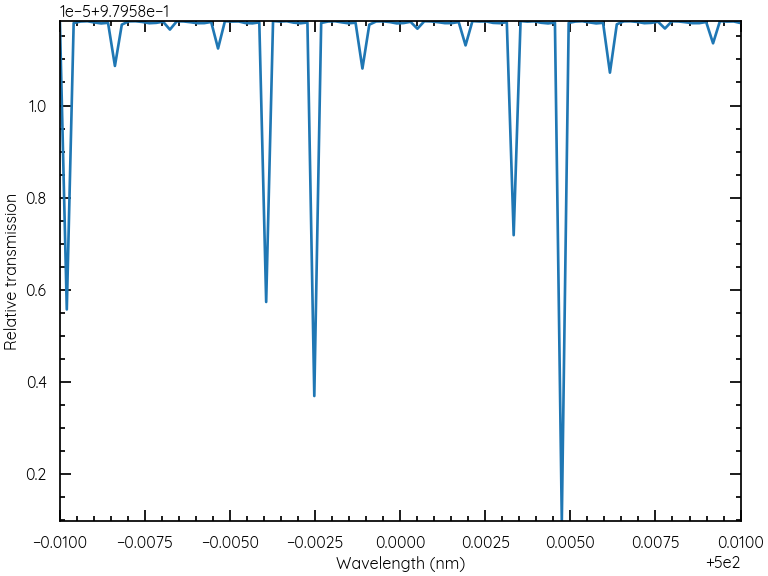
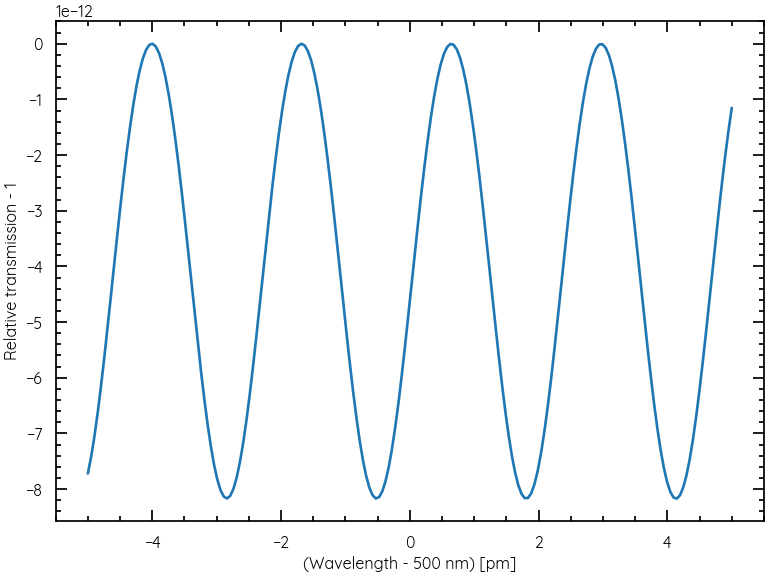
Fix up a few example plots (EtalonSim)

diff --git a/example_scripts/EtalonSim/etalon_numerical_comparison.py b/example_scripts/EtalonSim/etalon_numerical_comparison.py
@@ -45,14 +45,28 @@ def main() -> None:
     Xs = np.zeros_like(Zs)
     Ys = np.zeros_like(Zs)
 
-    c = 6e-3 / 7692 * 1e9
+    target_wavelength = 780 * u.nm
+
+    mode_number = int((mirror_spacing / target_wavelength).si.value)
+
+    central_wavelength = (mirror_spacing / mode_number).to(u.nm).value
     w = 0.01
-    wavelengths = np.linspace(c - w / 2, c + w / 2, 301) * u.nm
+    wavelengths = np.linspace(
+        central_wavelength - w / 2,
+        central_wavelength + w / 1.5,
+        301,
+    )
+
+    wavelengths *= u.nm
 
     # Three peaks:
     # wavelengths = np.linspace(499.975, 500.025, 200) * u.nm
 
-    output = {"gaussian": [], "planar": []}
+    output = {
+        "gaussian": [],
+        "planar": [],
+        # "spherical": [],
+    }
 
     for wavelength in wavelengths:
         beam = GaussianBeam(
@@ -76,6 +90,16 @@ def main() -> None:
         intensity = np.real(np.sum(dimmed) * np.conj(np.sum(dimmed)))
         output["planar"].append(intensity**0.5)
 
+        # beam = SphericalBeam(
+        #     wavelength=wavelength,
+        #     plane_normal=(0, 0, 1),
+        #     f_number=20,
+        # )
+        # results = beam.integrated_E_field(z=Zs, radius=10 * u.mm)
+        # dimmed = results * reflectivity
+        # intensity = np.real(np.sum(dimmed) * np.conj(np.sum(dimmed)))
+        # output["spherical"].append(intensity**0.5)
+
     fig = plt.figure()
     ax = fig.gca()
 
@@ -90,7 +114,9 @@ def main() -> None:
     ax.plot(
         wavelengths,
         analytic_intensity / np.max(analytic_intensity),
-        label=f"Analytic\nreflection-limited peak\nFWHM={analytic_fwhm:.4f}\nFinesse={analytic_finesse:.2f}",
+        label="Analytic reflection-limited peak\n"
+        + f"FWHM = {analytic_fwhm:.4f}\n"
+        + f"Finesse = {analytic_finesse:.2f}",
     )
 
     for _, [beam_type, values] in enumerate(output.items()):
@@ -98,28 +124,36 @@ def main() -> None:
         # Corresponds to the very first mirror reflection
         values = values / np.max(values) - (1 - np.sqrt(mirror_reflectivity))  # noqa: PLW2901
 
-        peak_fwhm = np.diff(FWHM(wavelengths.to("pm").value, values))[0] * u.pm
-        calculated_finesse = distance_between_peaks / peak_fwhm
+        try:
+            peak_fwhm = np.diff(FWHM(wavelengths.to("pm").value, values))[0] * u.pm
+            calculated_finesse = distance_between_peaks / peak_fwhm
+        except (IndexError, ValueError):
+            calculated_finesse = np.nan
 
         ax.plot(
             wavelengths,
             values / np.max(values),
             ls="--",
-            label=f"{beam_type}\nFWHM={peak_fwhm:.4f}\n"
-            + f"Finesse={calculated_finesse:.2f}",
+            label=f"{beam_type.title()} beam\n"
+            + f"FWHM = {peak_fwhm:.4f}\n"
+            + f"Finesse = {calculated_finesse:.2f}",
         )
 
     ax.set_xlabel("Wavelength (nm)")
     ax.set_ylabel("Normalised intensity")
     # ax.set_yticklabels([])
     ax.set_xlim(min(wavelengths).to("nm").value, max(wavelengths).to("nm").value)
+
+    ax.get_xaxis().get_major_formatter().set_scientific(True)
+    ax.get_xaxis().get_major_formatter().set_useOffset(False)
+
     ax.set_ylim(-0.05, 1.1)
     ax.legend()
 
     Path(SCRIPT_PATH / "plots").mkdir(parents=True, exist_ok=True)
     plt.savefig(SCRIPT_PATH / "plots" / f"{SCRIPT_NAME}.png")
 
-    plt.show()
+    # plt.show()
 
 
 if __name__ == "__main__":

diff --git a/example_scripts/EtalonSim/beamsplitter_fringing_numerical_spherical_beam.py b/example_scripts/EtalonSim/beamsplitter_fringing_numerical_spherical_beam.py
@@ -58,7 +58,7 @@ def main() -> None:
 
     mirror_spacing = 25.4 * u.mm  # 1 inch beamsplitter cube
     # even 3 reflections gets very low power left indeed, here I go overboard
-    num_round_trips = 50
+    num_round_trips = 20
     # 2% reflection from antireflection-coated outer cube surface
     mirror_reflectivity = 0.02
 
@@ -66,7 +66,7 @@ def main() -> None:
     baseline_transmission = 1 - np.sum(reflectivity)
 
     # Work out where to sample the beam - starting from the back surface of the BSC
-    backfocus = 60.5 * u.mm
+    backfocus = 85 * u.mm
     start_z = -(backfocus + mirror_spacing)
     stop_z = start_z + (2 * mirror_spacing) * (num_round_trips - 1)
 
@@ -79,7 +79,14 @@ def main() -> None:
     Zs = Zs * u.mm
 
     # wavelengths = np.linspace(380, 930, 3000) * u.nm
-    wavelengths = np.linspace(499.99, 500.01, 100) * u.nm
+    mid_wl = 500 * u.nm
+    width = 10 * u.pm
+    wavelengths = np.linspace(
+        (mid_wl - width / 2).to(u.nm).value,
+        (mid_wl + width / 2).to(u.nm).value,
+        200,
+    )
+    wavelengths *= u.nm
 
     output = []
 
@@ -94,7 +101,8 @@ def main() -> None:
             f_number=f_number,
         )
 
-        results = beam.summed_E_field(z=Zs, max_radius=5 * u.mm)
+        # results = beam.summed_E_field(z=Zs, max_radius=10 * u.mm, force_radius=True)
+        results = beam.integrated_E_field(z=Zs, radius=10 * u.mm)
 
         # Multiply by the reflectivity attenuation
         dimmed = np.array(
@@ -115,21 +123,27 @@ def main() -> None:
     plt.rcParams["axes.autolimit_mode"] = "data"
 
     transmission = baseline_transmission - output
-    ax.plot(wavelengths, transmission, label="")
+    max_transmission = np.nanmax(transmission)
+    delta_wls = (wavelengths - mid_wl).to(u.pm)
+
+    ax.plot(delta_wls, transmission / max_transmission - 1, label="")
 
     # ax.set_title("Beamsplitter cube etalon, gaussian beam illumination")
-    ax.set_xlabel("Wavelength (nm)")
-    ax.set_ylabel("Relative transmission")
+    ax.set_xlabel(f"(Wavelength - {mid_wl:.0f}) [pm]")
+    ax.set_ylabel("Relative transmission - 1")
     # ax.set_yticklabels([])
-    ax.set_xlim(min(wavelengths).value, max(wavelengths).value)
-    ax.set_ylim(min(transmission), max(transmission))
+    # ax.set_xlim(min(wavelengths).value, max(wavelengths).value)
+    # ax.set_ylim(min(transmission), max(transmission))
+
+    ax.get_yaxis().get_major_formatter().set_useOffset(False)
+    ax.get_yaxis().get_major_formatter().set_scientific(True)
 
     # ax.legend()
 
     Path(SCRIPT_PATH / "plots").mkdir(parents=True, exist_ok=True)
     plt.savefig(SCRIPT_PATH / "plots" / f"{SCRIPT_NAME}.png")
 
-    plt.show()
+    # plt.show()
 
 
 if __name__ == "__main__":

diff --git a/example_scripts/EtalonSim/glue_gap_fringing_numerical_spherical_beam.py b/example_scripts/EtalonSim/glue_gap_fringing_numerical_spherical_beam.py
@@ -31,26 +31,27 @@ def main() -> None:
     mirror_spacing: Quantity = 10 * u.um  # Glue gap thickness in beamsplitter cube
     mirror_reflectivity = 0.01  # Calculated reflectivity due to refractive
     # index mismatch between the glue and the glass
-    num_round_trips = 11
+    num_round_trips = 20
 
     reflectivity = np.array([mirror_reflectivity**i for i in range(1, num_round_trips)])
     baseline_transmission = 1 - np.sum(reflectivity)
     print(f"{baseline_transmission = }")
 
     # Work out where to sample the beam - starting from the back surface of the BSC
-    backfocus = 60.5 * u.mm
+    backfocus = 80 * u.mm
     start_z = -(backfocus + mirror_spacing)
     stop_z = start_z + (2 * mirror_spacing) * (num_round_trips - 1)
 
     # numpy doesn't enjoy working with astropy.units sometimes...
-    Zs = (
-        np.linspace(
-            start_z.to("mm").value, stop_z.to("mm").value, (num_round_trips - 1)
-        )
-        * u.mm
+    Zs = np.linspace(
+        start_z.to("mm").value,
+        stop_z.to("mm").value,
+        (num_round_trips - 1),
     )
 
-    wavelengths = np.linspace(499.9, 500.1, 100) * u.nm
+    Zs *= u.mm
+
+    wavelengths = np.linspace(490, 510, 200) * u.nm
 
     output = []
 
@@ -64,7 +65,8 @@ def main() -> None:
             debug_level=0,
         )
 
-        results = beam.summed_E_field(z=Zs, max_radius=2 * u.mm)
+        # results = beam.summed_E_field(z=Zs, max_radius=2 * u.mm)
+        results = beam.integrated_E_field(z=Zs, radius=10 * u.mm)
 
         # Multiply by the reflectivity attenuation
         dimmed = np.array(
@@ -91,14 +93,16 @@ def main() -> None:
     ax.set_xlabel("Wavelength (nm)")
     ax.set_ylabel("Relative transmission")
     # ax.set_yticklabels([])
-    ax.set_ylim(min(transmission), max(transmission))
     ax.set_xlim(min(wavelengths).value, max(wavelengths).value)
-    # ax.legend()
+    ax.set_ylim(min(transmission), max(transmission))
+
+    # ax.get_yaxis().get_major_formatter().set_scientific(True)
+    # ax.get_yaxis().get_major_formatter().set_useOffset(False)
 
     Path(SCRIPT_PATH / "plots").mkdir(parents=True, exist_ok=True)
     plt.savefig(SCRIPT_PATH / "plots" / f"{SCRIPT_NAME}.png")
 
-    plt.show()
+    # plt.show()
 
 
 if __name__ == "__main__":

diff --git a/src/curved_air/beams.py b/src/curved_air/beams.py
@@ -518,13 +518,39 @@ class SphericalBeam(Beam):
         def integrand(r: float) -> float:
             sqrtr2x2 = np.sqrt(r**2 + z**2)
 
-            # print((1 / sqrtr2x2) * np.exp(-1j * k * sqrtr2x2))# * r
+            return (1 / sqrtr2x2) * np.exp(-1j * k * sqrtr2x2) * r
 
-            return (1 / sqrtr2x2) * np.exp(-1j * k * sqrtr2x2)  # * r
-
-        I, error = quad(integrand, 0, radius.to(u.mm).value, limit=50)  # noqa: E741
+        I, error = quad(integrand, 0, radius.to(u.mm).value, limit=100)  # noqa: E741
 
         return 2 * np.pi * self.E_0 * I
+
+    def integrated_E_field(
+        self,
+        z: Quantity = 0 * u.mm,
+        radius: Quantity = 10 * u.mm,
+    ) -> Quantity:
+        """Use the analytic expression for a slice through the beam at a distance z"""
+
+        if isinstance(z, list):
+            return [self.integrated_E_field(z=zi, radius=radius) for zi in z]
+
+        if isinstance(z, Quantity):
+            z = z.to(u.mm).value
+
+        if isinstance(radius, Quantity):
+            radius = radius.to(u.mm).value
+
+        beam_edge = z / self.f_number
+
+        R = np.minimum(radius, beam_edge)
+
+        k = self.k_scalar.to(1 / u.mm).value
+
+        constant = (2 * np.pi * self.E_0) / (1j * k)
+        exponent_1 = 1j * (k * np.sqrt(R**2 + z**2))
+        exponent_2 = 1j * (k * z)
+
+        return constant * (np.exp(exponent_1) * np.exp(-exponent_2))
 
 
 def main() -> None: ...

diff --git a/example_scripts/EtalonSim/etalon_gaussian_beam_comparing_gouy_and_radial_phase.py b/example_scripts/EtalonSim/etalon_gaussian_beam_comparing_gouy_and_radial_phase.py
@@ -101,7 +101,7 @@ def main() -> None:
     ax.plot(0, 0, color="k", alpha=0.75, ls="--", label="Gouy phase")
     ax.plot(0, 0, color="k", alpha=0.75, ls="-.", label="radial phase (absolute)")
 
-    ax.set_title(f"Gouy phase and radial phase\nintegrated out to $r={r}$")
+    # ax.set_title(f"Gouy phase and radial phase\nintegrated out to $r={r}$")
 
     ax.set_xlabel("propagation distance z [mm]")
     ax.set_ylabel("average phase [cycles]")
@@ -109,7 +109,7 @@ def main() -> None:
     ax.legend()
 
     Path(SCRIPT_PATH / "plots").mkdir(parents=True, exist_ok=True)
-    plt.savefig(SCRIPT_PATH / "plots" / f"{SCRIPT_NAME}.png")
+    plt.savefig(SCRIPT_PATH / "plots" / f"{SCRIPT_NAME}.png", dpi=300)
 
     plt.show()
 

diff --git a/example_scripts/EtalonSim/etalon_gaussian_beam_comparing_gouy_and_radial_phase_no_reflection.py b/example_scripts/EtalonSim/etalon_gaussian_beam_comparing_gouy_and_radial_phase_no_reflection.py
@@ -78,7 +78,7 @@ def main() -> None:
     ax.plot(0, 0, color="k", alpha=0.75, ls="--", label="Gouy phase")
     ax.plot(0, 0, color="k", alpha=0.75, ls="-.", label="radial phase (absolute)")
 
-    ax.set_title(f"Gouy phase and radial phase\nintegrated out to $r={r}$")
+    # ax.set_title(f"Gouy phase and radial phase\nintegrated out to $r={r}$")
 
     ax.set_xlabel("propagation distance z [m]")
     ax.set_ylabel("average phase [cycles]")
@@ -86,7 +86,7 @@ def main() -> None:
     ax.legend()
 
     Path(SCRIPT_PATH / "plots").mkdir(parents=True, exist_ok=True)
-    plt.savefig(SCRIPT_PATH / "plots" / f"{SCRIPT_NAME}.png")
+    plt.savefig(SCRIPT_PATH / "plots" / f"{SCRIPT_NAME}.png", dpi=300)
 
     plt.show()
 

diff --git a/example_scripts/EtalonSim/etalon_gaussian_beam_phase_contributions.py b/example_scripts/EtalonSim/etalon_gaussian_beam_phase_contributions.py
@@ -52,10 +52,10 @@ def main() -> None:
     fig = plt.figure()
     ax = fig.gca()
 
-    G = ax.plot(Zs, gouy, ls="--", label="Gouy phase")
-    R = ax.plot(Zs, radi, ls="-.", color=G[0].get_color(), label="Radial phase")  # noqa: F841
+    ax.plot(Zs, gouy, ls="--", label="Gouy phase")
+    ax.plot(Zs, radi, ls="-.", label="Radial phase")
 
-    ax.plot(Zs, gouy + radi, color=G[0].get_color(), alpha=0.5, label="Sum")
+    ax.plot(Zs, gouy + radi, color="k", label="Sum")
 
     ax.legend()
 

diff --git a/src/curved_air/plotting.py b/src/curved_air/plotting.py
@@ -21,8 +21,11 @@ url = (
     "https://github.com/andrew-paglinawan/QuicksandFamily/blob/master/"
     + "fonts/statics/Quicksand-Regular.ttf"
 )
-quicksand = load_font(font_url=f"{url}?raw=true")
-fm.FontManager.addfont(fm.fontManager, path=quicksand._file)
+try:
+    quicksand = load_font(font_url=f"{url}?raw=true")
+    fm.FontManager.addfont(fm.fontManager, path=quicksand._file)
+except Exception:
+    ...
 
 lw = 1.3
 
